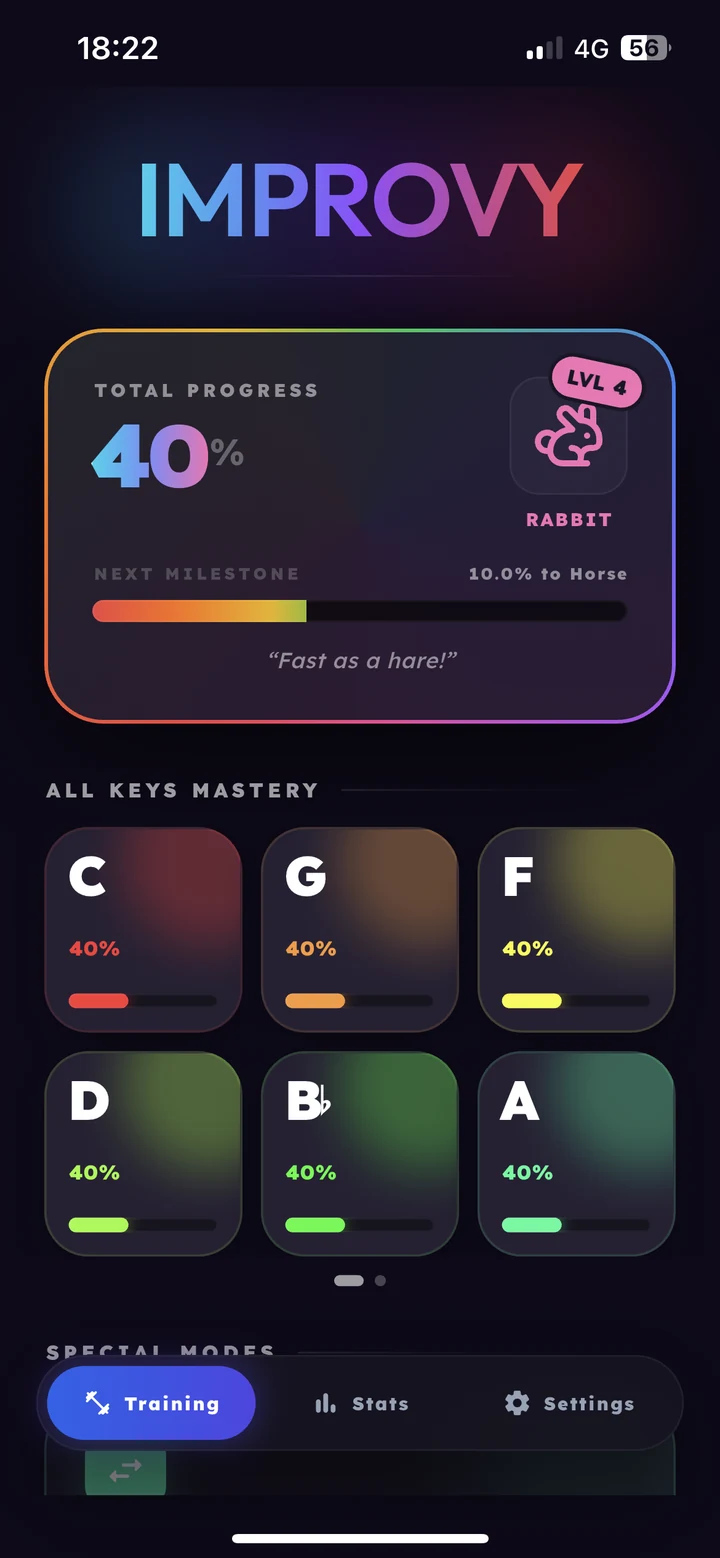
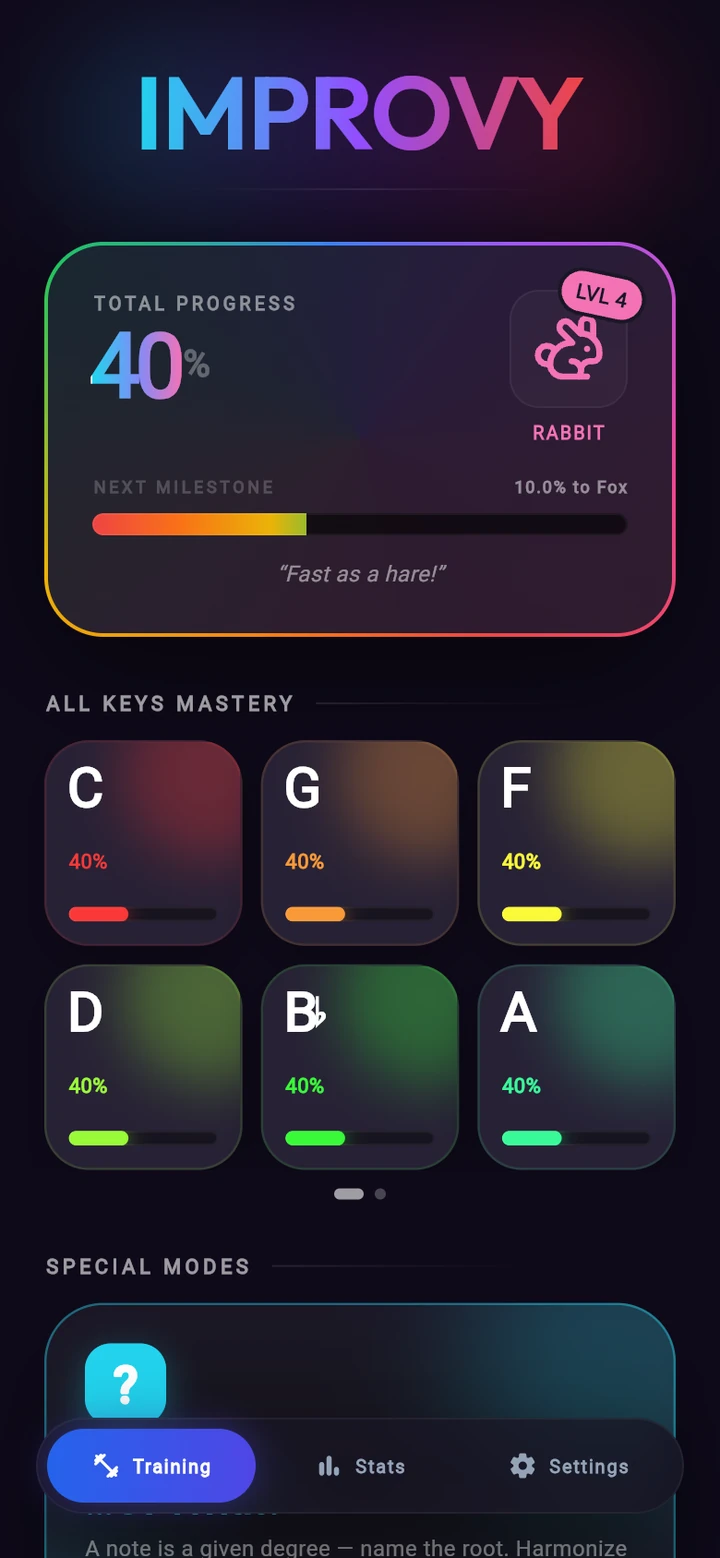
Site: add …Of What? & Pocket modes, fix pricing/copy, refresh screenshots
- Method page: add two new mode cards — …Of What? (name the root from a note)
  and Pocket Mode (hands-free audio) — each with a fresh in-app screenshot and
  its own accent (cyan / indigo).
- Pricing + checkout: correct the free/pro split — …Of What? and Pocket are
  free; Chromatic Mode, jazz extensions, the other 11 keys, Note-to-Number and
  Custom are Pro. Previous lists were outdated.
- Hero: replace the AI-jargon subheading with clear, human copy.
- Footer: fix the stray company name.
- Refresh the home screenshot so the milestone label matches the app.

Claude-Session: https://claude.ai/code/session_01WxjDdAHP8mv3wAafRFViM9

diff --git a/src/components/WhyImprovyPage.tsx b/src/components/WhyImprovyPage.tsx
@@ -5,6 +5,8 @@ import methodDiatonicImg from "../assets/images/method_diatonic_grid.webp";
 import methodHomeImg from "../assets/images/method_home_progress.webp";
 import methodStatsImg from "../assets/images/method_stats.webp";
 import methodPianoImg from "../assets/images/method_piano_answer.webp";
+import methodOfWhatImg from "../assets/images/method_ofwhat.webp";
+import methodPocketImg from "../assets/images/method_pocket.webp";
 import { 
   ArrowLeft, 
   Sparkle, 
@@ -29,8 +31,8 @@ interface InteractiveIPhoneMockupProps {
   title: string;
   subtitle: string;
   badge: string;
-  badgeColor: "amber" | "rose" | "purple" | "cyan";
-  modeType: "diatonic" | "chromatic" | "inverse" | "piano";
+  badgeColor: "amber" | "rose" | "purple" | "cyan" | "indigo";
+  modeType: "diatonic" | "chromatic" | "inverse" | "piano" | "ofwhat" | "pocket";
   score: string;
   streak: string;
   timer: string;
@@ -101,6 +103,12 @@ function InteractiveIPhoneMockup({
       bgGradient: "from-cyan-500/10 via-transparent to-transparent",
       backglow: "bg-cyan-500/25",
     },
+    indigo: {
+      accent: "#6366f1",
+      shadow: "rgba(99, 102, 241, 0.35)",
+      bgGradient: "from-indigo-500/10 via-transparent to-transparent",
+      backglow: "bg-indigo-500/25",
+    },
   }[badgeColor];
 
   const badgeClasses = {
@@ -108,6 +116,7 @@ function InteractiveIPhoneMockup({
     rose: "bg-rose-500/10 border-rose-500/20 text-rose-455",
     purple: "bg-purple-500/10 border-purple-500/20 text-purple-400",
     cyan: "bg-cyan-500/10 border-cyan-500/20 text-cyan-450",
+    indigo: "bg-indigo-500/10 border-indigo-500/20 text-indigo-300",
   }[badgeColor];
 
   return (
@@ -372,7 +381,7 @@ export function WhyImprovyPage({ onBack }: WhyImprovyPageProps) {
         {/* 3. SECTION: THE 4 CORE APP MODULES & MODES (THE HEART OF THE METHOD) */}
         <div className="space-y-8">
           <div className="text-center md:text-left space-y-3">
-            <h2 className="text-2xl sm:text-3xl font-black text-white font-display uppercase tracking-tight">Our App's 4 Core Training Modes</h2>
+            <h2 className="text-2xl sm:text-3xl font-black text-white font-display uppercase tracking-tight">Our App's Core Training Modes</h2>
           </div>
 
           <div className="grid grid-cols-1 md:grid-cols-2 gap-8 text-left">
@@ -521,6 +530,76 @@ export function WhyImprovyPage({ onBack }: WhyImprovyPageProps) {
                   timer="FREEPLAY"
                   screenshot={methodPianoImg}
                   screenshotAlt="Improvy interactive piano keyboard with answer feedback"
+                />
+              </div>
+            </div>
+
+            {/* 5. …OF WHAT? MODE */}
+            <div className="relative group overflow-visible p-8 sm:p-9 rounded-[32px] bg-zinc-950/40 border border-white/[0.04] hover:border-cyan-500/20 hover:bg-zinc-950/70 transition-all duration-700 flex flex-col justify-between space-y-8 shadow-2xl hover:shadow-[0_0_50px_-12px_rgba(6,182,212,0.18)] hover:-translate-y-1.5">
+              <div className="absolute -inset-2 rounded-[34px] bg-cyan-500/10 opacity-0 group-hover:opacity-100 blur-3xl transition-all duration-700 pointer-events-none" />
+
+              <div className="relative z-10 space-y-4">
+                <div className="flex items-center justify-between border-b border-white/[0.04] pb-4">
+                  <div className="flex items-center gap-2">
+                    <div className="w-2 h-2 rounded-full bg-cyan-400 animate-pulse" />
+                    <span className="text-[10px] font-sans tracking-[0.18em] text-cyan-400 font-black uppercase">…OF WHAT? MODE</span>
+                  </div>
+                  <span className="text-[9px] text-cyan-400 font-bold uppercase bg-cyan-500/5 px-2.5 py-1 rounded-full border border-cyan-500/10">NAME THE ROOT</span>
+                </div>
+
+                <h4 className="text-xl font-bold text-white uppercase font-display tracking-tight group-hover:text-cyan-400 transition-colors duration-300">One Note, Every Key</h4>
+                <p className="text-xs sm:text-sm text-zinc-400 font-light leading-relaxed">
+                  The reverse challenge that rewires how you hear harmony. A single note is given as a scale degree — the 3rd, the ♭7, the 9th — and you name the key it belongs to. Train the same relationships in both directions until every note instantly reveals the keys it lives in.
+                </p>
+              </div>
+
+              <div className="relative z-10 flex justify-center py-4">
+                <InteractiveIPhoneMockup
+                  title="…Of What?"
+                  subtitle="Note E · the 5th"
+                  badge="OF WHAT"
+                  badgeColor="cyan"
+                  modeType="ofwhat"
+                  score="+680 XP"
+                  streak="9 Days"
+                  timer="0:05"
+                  screenshot={methodOfWhatImg}
+                  screenshotAlt="Improvy …Of What? mode — the note E presented as the 5th, with the twelve root answers"
+                />
+              </div>
+            </div>
+
+            {/* 6. POCKET MODE */}
+            <div className="relative group overflow-visible p-8 sm:p-9 rounded-[32px] bg-zinc-950/40 border border-white/[0.04] hover:border-indigo-500/20 hover:bg-zinc-950/70 transition-all duration-700 flex flex-col justify-between space-y-8 shadow-2xl hover:shadow-[0_0_50px_-12px_rgba(99,102,241,0.18)] hover:-translate-y-1.5">
+              <div className="absolute -inset-2 rounded-[34px] bg-indigo-500/10 opacity-0 group-hover:opacity-100 blur-3xl transition-all duration-700 pointer-events-none" />
+
+              <div className="relative z-10 space-y-4">
+                <div className="flex items-center justify-between border-b border-white/[0.04] pb-4">
+                  <div className="flex items-center gap-2">
+                    <div className="w-2 h-2 rounded-full bg-indigo-400 animate-pulse" />
+                    <span className="text-[10px] font-sans tracking-[0.18em] text-indigo-300 font-black uppercase">POCKET MODE</span>
+                  </div>
+                  <span className="text-[9px] text-indigo-300 font-bold uppercase bg-indigo-500/5 px-2.5 py-1 rounded-full border border-indigo-500/10">HANDS-FREE AUDIO</span>
+                </div>
+
+                <h4 className="text-xl font-bold text-white uppercase font-display tracking-tight group-hover:text-indigo-300 transition-colors duration-300">Train With Your Eyes Closed</h4>
+                <p className="text-xs sm:text-sm text-zinc-400 font-light leading-relaxed">
+                  Pure audio practice for your commute, your walk, or your warm-up. A voice calls a degree, waits while you answer in your head, then speaks the note — looping hands-free, even with the screen locked. Choose your key, set the pace, and drill anywhere.
+                </p>
+              </div>
+
+              <div className="relative z-10 flex justify-center py-4">
+                <InteractiveIPhoneMockup
+                  title="Pocket Mode"
+                  subtitle="Hands-free · screen off"
+                  badge="POCKET"
+                  badgeColor="indigo"
+                  modeType="pocket"
+                  score="+1,020 XP"
+                  streak="Continuous"
+                  timer="AUTO"
+                  screenshot={methodPocketImg}
+                  screenshotAlt="Improvy Pocket Mode — hands-free audio trainer with the answer note lit on the keyboard"
                 />
               </div>
             </div>

diff --git a/src/App.tsx b/src/App.tsx
@@ -334,7 +334,7 @@ export default function App() {
                 transition={{ delay: 0.24, duration: 0.5 }}
                 className="text-zinc-400 text-sm md:text-base leading-relaxed max-w-xl font-sans font-light"
               >
-                A synthetic relational methodology tuned to 12 keys. Instantly translate harmonic structures into spatial geometric vectors to unlock total awareness during improvisation, mental calculation, and composition.
+                Every note is just a number in its key. Improvy trains you to see that number instantly — in all 12 keys — so improvising, transposing, and composing stop being mental math and start feeling like second nature.
               </motion.p>
 
               {/* Actions with glowing custom premium buttons */}
@@ -549,7 +549,7 @@ export default function App() {
                   </div>
 
                   <p className="text-xs text-zinc-450 font-sans font-light leading-relaxed">
-                    Perfect for your first steps. Train mental calculations and practice scale degree relationships in the key of C.
+                    Perfect for your first steps. Master scale-degree relationships in the key of C, plus the free …Of What? and Pocket modes.
                   </p>
 
                   <div className="py-5 border-t border-b border-white/[0.05]">
@@ -567,37 +567,37 @@ export default function App() {
                         <div className="w-5 h-5 rounded-full bg-emerald-500/10 border border-emerald-500/20 flex items-center justify-center shrink-0">
                           <Check className="w-3 h-3 text-emerald-400 stroke-[3]" />
                         </div>
-                        <span>C Major / Minor key training</span>
+                        <span>Diatonic training in the key of C</span>
                       </li>
                       <li className="flex items-center gap-3">
                         <div className="w-5 h-5 rounded-full bg-emerald-500/10 border border-emerald-500/20 flex items-center justify-center shrink-0">
                           <Check className="w-3 h-3 text-emerald-400 stroke-[3]" />
                         </div>
-                        <span>Visualize scale degree logic on the keyboard</span>
+                        <span><span className="font-semibold text-white">…Of What?</span> & <span className="font-semibold text-white">Pocket Mode</span> included free</span>
                       </li>
                       <li className="flex items-center gap-3">
                         <div className="w-5 h-5 rounded-full bg-emerald-500/10 border border-emerald-500/20 flex items-center justify-center shrink-0">
                           <Check className="w-3 h-3 text-emerald-400 stroke-[3]" />
                         </div>
-                        <span>Basic tracking and core diagnostics</span>
+                        <span>Visualize scale degrees on the keyboard</span>
                       </li>
                       <li className="flex items-center gap-3 text-zinc-650 opacity-45">
                         <div className="w-5 h-5 rounded-full bg-zinc-800/20 border border-white/5 flex items-center justify-center shrink-0">
                           <X className="w-3 h-3 text-zinc-500" />
                         </div>
-                        <span className="line-through">Other 11 keys locked (desaturated)</span>
+                        <span className="line-through">Chromatic Mode & the other 11 keys</span>
                       </li>
                       <li className="flex items-center gap-3 text-zinc-650 opacity-45">
                         <div className="w-5 h-5 rounded-full bg-zinc-800/20 border border-white/5 flex items-center justify-center shrink-0">
                           <X className="w-3 h-3 text-zinc-500" />
                         </div>
-                        <span className="line-through">PRO trainings and customization</span>
+                        <span className="line-through">Note-to-Number & Custom modes</span>
                       </li>
                       <li className="flex items-center gap-3 text-zinc-650 opacity-45">
                         <div className="w-5 h-5 rounded-full bg-zinc-800/20 border border-white/5 flex items-center justify-center shrink-0">
                           <X className="w-3 h-3 text-zinc-500" />
                         </div>
-                        <span className="line-through">Adaptive difficulty and detailed analytics</span>
+                        <span className="line-through">Adaptive difficulty & deep analytics</span>
                       </li>
                     </ul>
                   </div>
@@ -666,13 +666,13 @@ export default function App() {
                           <div className="w-5 h-5 rounded-full bg-[#e5a93c]/12 border border-[#e5a93c]/25 flex items-center justify-center shrink-0">
                             <Check className="w-3 h-3 text-[#e5a93c] stroke-[3]" />
                           </div>
-                          <span>Exclusive: <span className="font-semibold text-white">Note-to-Number</span> Mode (Note to scale degree)</span>
+                          <span><span className="font-semibold text-white">Chromatic Mode</span> + jazz extensions (9 · 11 · 13, altered)</span>
                         </li>
                         <li className="flex items-center gap-3">
                           <div className="w-5 h-5 rounded-full bg-[#e5a93c]/12 border border-[#e5a93c]/25 flex items-center justify-center shrink-0">
                             <Check className="w-3 h-3 text-[#e5a93c] stroke-[3]" />
                           </div>
-                          <span>Custom configuration of notes and scale degrees</span>
+                          <span>Note-to-Number, Custom, <span className="font-semibold text-white">…Of What?</span> & <span className="font-semibold text-white">Pocket</span> unlocks</span>
                         </li>
                         <li className="flex items-center gap-3">
                           <div className="w-5 h-5 rounded-full bg-[#e5a93c]/12 border border-[#e5a93c]/25 flex items-center justify-center shrink-0">
@@ -1008,7 +1008,7 @@ export default function App() {
                   </button>
                 </div>
                 <div className="pt-6 mt-2 text-[11px] text-zinc-500 font-light">
-                  <p>2026 Imprivilabs Inc. All Rights Reserved</p>
+                  <p>© 2026 Improvy. All rights reserved.</p>
                 </div>
               </div>
 

diff --git a/src/components/CheckoutPro.tsx b/src/components/CheckoutPro.tsx
@@ -94,11 +94,11 @@ export function CheckoutPro({ onBack }: CheckoutProProps) {
                 
                 <ul className="space-y-4">
                   {[
-                    "Complete unlock of all 12 chromatic keys",
-                    "Exclusive mode: Note-to-Number (Note to scale degree)",
-                    "Custom configurations of scale degrees and notes",
+                    "Complete unlock of all 12 keys",
+                    "Chromatic Mode + jazz extensions (9, 11, 13, altered)",
+                    "Note-to-Number, Custom, …Of What? & Pocket unlocks",
                     "Real-time Adaptive Difficulty algorithm",
-                    "Deep Analytics: Keyboard heatmap and reaction times",
+                    "Deep Analytics: keyboard heatmap and reaction times",
                     "No subscription, seamless lifetime access"
                   ].map((benefit, idx) => (
                     <li key={idx} className="flex items-start gap-3 text-xs text-zinc-300 font-light leading-snug">